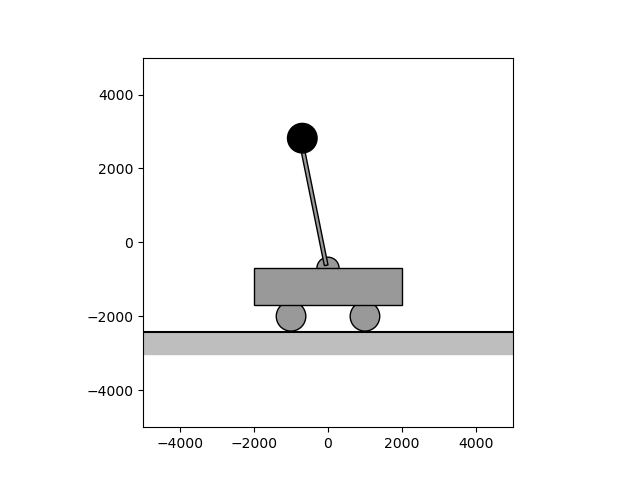
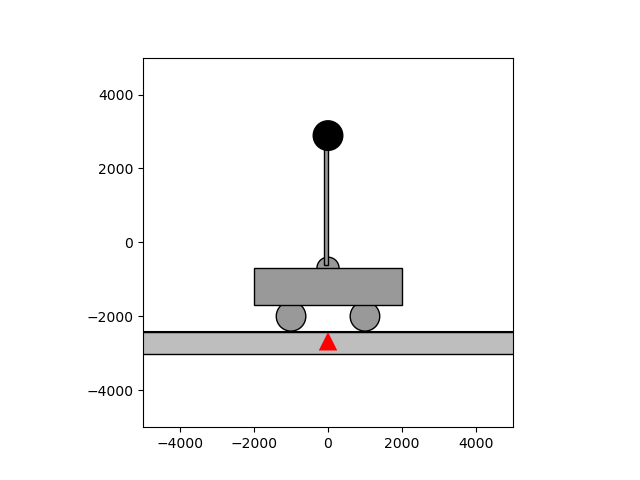
no controlをupdateした

Changed region(s): [[0.4375, 0.25, 0.5312, 0.5625], [0.2188, 0.6875, 0.8125, 0.75]]

diff --git a/inverted_pendulum/main.py b/inverted_pendulum/main.py
@@ -24,19 +24,20 @@ class DefaultController:
         return np.array([0.0])
         
 class Pendulum:
-    def __init__(self, controller=None, draw_cycle=3, interval_ms=10, T=10.0, x0=[0., 0.2, 0., 0.], params = {}):
+    def __init__(self, controller=None, draw_cycle=3, interval_ms=10, T=10.0, x0=[0., 0.02, 0., 0.], params = {}):
         ##### 設定 ####
-        self.draw_cycle = draw_cycle    # 描画周期と制御周期の比率(整数)
-        self.interval_ms = interval_ms  # 制御周期[ms]
-        self.T = T                      # シミュレーション時間[s]
+        self.draw_cycle = int(draw_cycle)   # 描画周期と制御周期の比率(整数)
+        self.interval_ms = interval_ms      # 制御周期[ms]
+        self.T = T                          # シミュレーション時間[s]
         self.params = {
             "M":params.get("M", 2.0),
-            "m":params.get("m", 1.0),
-            "l":params.get("l", 3.0),
+            "m":params.get("m", 4.0),
+            "l":params.get("l", 2.0),
             "Dx":params.get("Dx", 0.2),
             "Dtheta":params.get("Dtheta", 0.1),
             "g":params.get("g", 9.8),
         }
+        self.noise = np.array([0.1, 0.1, 0.2, 0.2])
 
         #### 内部変数の初期化 ####
         self.dt = interval_ms * 1e-3    # 制御周期[s]
@@ -60,15 +61,9 @@ class Pendulum:
         plt.ylim(-Y, Y)
 
         black = '#'+'0'*6
-
-        # 地面の描写
-        fy = -2425
-        plt.plot([-X*1.2,X*1.2], [fy, fy], color=black)
-        h = 600
-        c = hex(190)[2:]
-        r = patches.Rectangle(xy=(-1.2*X, fy - h), width=2.4*X, height=h, color='#'+c*3)
-        ax.add_patch(r)
-
+        def triangle(p1, p2, p3, color='r'):
+            t = patches.Polygon(xy = [p1, p2, p3], fc=color)
+            ax.add_patch(t)
 
         def circle(x, y, r, color='#999999'):
             c = patches.Circle(xy=(x, y), radius=r, fc=color, ec=black)
@@ -77,6 +72,16 @@ class Pendulum:
         def rectangle(x, y, w, h, color='#999999', theta=0.0):
             r = patches.Rectangle(xy=(x, y), width=w, height=h, fc=color, ec=black, angle=(theta*180/np.pi))
             ax.add_patch(r)
+
+        # 地面の描写
+        fy = -2425
+        plt.plot([-X*1.2,X*1.2], [fy, fy], color=black)
+        h = 600
+        c = hex(190)[2:]
+        rectangle(-1.2*X, fy-h, 2.4*X, h, color='#'+c*3)
+        r0 = np.array([0., fy])
+        dr = np.array([250., -500.])
+        triangle(r0, r0+dr, r0+np.array([-1.,1.])*dr)
 
         y0 = -2000
         dy = 300
@@ -100,7 +105,7 @@ class Pendulum:
     def control_callback(self):
         u = self.controller(self.params, self.x, self.dt)
         
-        self.x += runge_kutta(lambda x,u:eos.f(x, u, self.params), self.x, u, self.dt)
+        self.x += runge_kutta(lambda x,u:eos.f(x, u, self.params)+self.noise*np.random.randn(4), self.x, u, self.dt)
         self.t += self.dt
 
     # 描画周期ごとに呼ばれる
@@ -153,9 +158,12 @@ class PID():
         return u
 
 class ExtendedLQR:
-    def __init__(self, Q, R):
-        self.Q = np.array(Q)
-        self.R = np.array(R)
+    def __init__(self, Q_, R_):
+        Q = np.array(Q_)
+        self.Q = 0.5 * (Q+Q.T)
+        R = np.array(R_)
+        self.R = 0.5 * (R+R.T)
+
 
     def __call__(self, params, state, dt):
         x_center = np.array(state)
@@ -172,22 +180,22 @@ def picture():
     pendulum.take_picture("pendulum.png")
 
 def no_control():
-    pendulum = Pendulum()
+    pendulum = Pendulum(T=10.0)
     pendulum.gen_gif("no_control.gif")
 
 def lqr():
     Q = np.array([
-        [0.4, 0.0, 0.0, 0.0],
-        [0.0, 2.0, 0.1, 0.1],
-        [0.0, 0.1, 2.0, 0.1],
-        [0.0, 0.1, 0.1, 1.2]])
+        [1.0, 0.1, 0.1, 0.1],
+        [0.1, 2.0, 0.1, 0.1],
+        [0.1, 0.1, 2.0, 0.1],
+        [0.1, 0.1, 0.1, 1.2]])
     R = np.array([
-            [0.1]])
+            [0.05]])
     controller = ExtendedLQR(Q, R)
     pendulum = Pendulum(controller=controller, T=10.0)
     pendulum.gen_gif("lqr.gif")
 
 if __name__ == '__main__':
-    #picture()
-    #no_control()
+    picture()
+    no_control()
     lqr()
